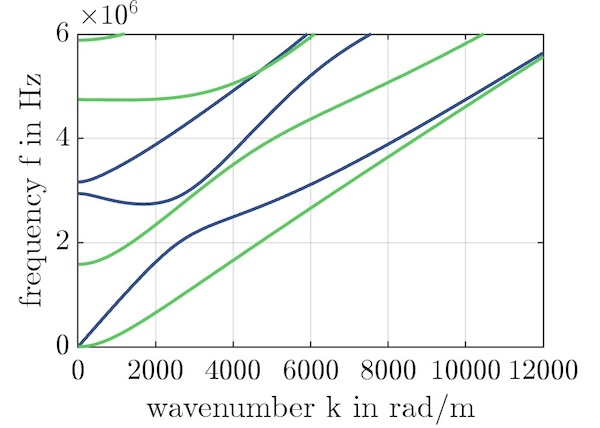
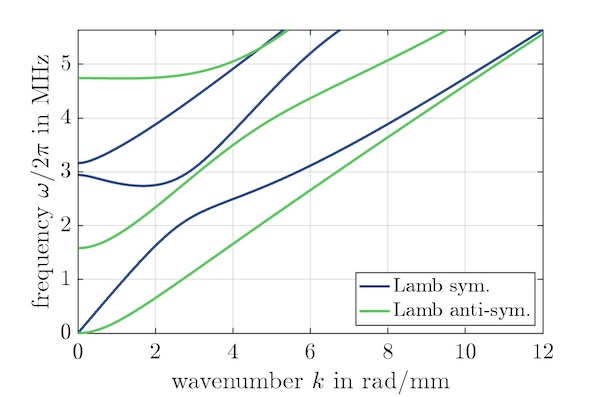
updated readme and changelog. added QR code.

diff --git a/readme.md b/readme.md
@@ -7,18 +7,28 @@
 
 **Features**:
 
-- Multi-layered plates, tubes and rods
-- Super fast, guarantees to find all solutions
-- General anisotropy, dissipation
-- Compute real frequencies, complex wavenumbers, or ZGV points
-- Choose polarization (Lamb/SH/coupled) and parity (S/A)
+- multi-layered plates, tubes and rods
+- anisotropy, piezoelectricity, dissipation
+- super fast, guarantees to find all solutions
+- compute real frequencies, complex wavenumbers, or ZGV points
+- choose polarization (Lamb/SH/coupled) and parity (S/A)
 
 [![GitHub](assets/logo_github.svg)](https://github.com/dakiefer/GEWtool) Code repository: [https://github.com/dakiefer/GEWtool](https://github.com/dakiefer/GEWtool)
+
+> [!WARNING]
+> **v2.0 introduces the following backward-incompatibilities**:
+>
+> - directory structure updated: you will need to re-run `install.m` after updating to v2.0.
+> - `rotateEuler()` changed from extrinsic to intrinsic rotations! Reverse the order of rotation sequences in your old scripts to get the same results as with older GEWtool versions. 
+>   See `help rotateEuler` for more information.
+> - changed coordinate system
+>   - plate: ex-ey-ez system: ex is propagation direction, _ez is normal_ to the plate surface (previously, this was ey)
+>   - cylinder: ex-ephi-er system: ex is propagation direction, er is the radial direction
+> - solver functions: return a `GEWdat` object instead of a `struct`
 
 > [!NOTE]
 > **Coming soon**:
 >
-> - Piezoelectricity 
 > - Leaky waves
 > 
 > Contact me if you have questions:  [daniel.kiefer@espci.fr](mailto:daniel.kiefer@espci.fr)
@@ -33,9 +43,7 @@ k = linspace(1e-2, 12, 100)/h;   % wavenumbers to solve for
 plate = Plate(mat, h, N);        % create waveguide description 
 gews = plate.LambSA; tic;        % choose S+A Lamb waves (assembles matrices)
 dat = computeW(gews, k, 4); toc; % solve and save 4 modes (argument optional)
-plot(dat(1).k, dat(1).w/2/pi, 'Color', "#3B518B"); hold on;        % symmetric
-plot(dat(2).k, dat(2).w/2/pi, 'Color', "#5EC962"); ylim([0, 6e6]); % anti-sym
-xlabel('wavenumber k in rad/m'), ylabel('frequency f in Hz')
+plot(dat); 											 % plot dispersion curves
 ```
 
 output:
@@ -47,9 +55,9 @@ Proceed by inspecting the laser-ultrasonic excitability of the waves computed ab
 
 ```matlab
 k = linspace(1e-2, 12, 200)/h;          % use more wavenumbers
-gew = plate.Lamb;                       % choose all Lamb waves
+gew = plate.Lamb;                       % choose all Lamb waves this time
 dat = computeW(gew, k, 7);              % compute
-exc = excitabilityLUS(dat, 'top'); % ux*uz at top surface (value of 1 at 100x median)
+exc = excitabilityLUS(dat, 'top'); % vx*uz at top surface (value of 1 at 100x median)
 exc = 20*log10(exc);                    % in decibel
 scatter(dat.k(:)/1e3, dat.w(:)/2/pi/1e6, 15, exc(:), 'filled'), ylim([0, 6]);
 colormap(flipud(colormap)); cb = colorbar; caxis([-50, 0]);
@@ -147,7 +155,7 @@ Hauke Gravenkamp, Pierre Chantelot, Claire Prada, Clemens Grünsteidl and Michae
 
 ## Author
 
-2022–2024 – Daniel A. Kiefer, Institut Langevin, ESPCI Paris, Université PSL.
+2022–2025 – Daniel A. Kiefer, Institut Langevin, ESPCI Paris, Université PSL.
 
 I have several years of experience in waveguide modeling and numerical implementations thereof. In January 2022 I decided to create a new modular and versatile code from scratch. The result is GEWtool. My hope is that it be a valuable research tool and at the same time a helpful educational resource for those interested in numerical methods and elastic waves.
 

diff --git a/CHANGELOG.md b/CHANGELOG.md
@@ -2,6 +2,28 @@
 
 Documents the changes to GEWtool.
 
+## 2.0 (2025-01-28)
+
+- FEATURE **piezoelectric plates** are now supported. Simply pass a piezoelectric material to the Plate class.
+- FEATURE **More convenient post-processing**. `GEWdat` is now a class. It saves the computed results and the Waveguide object for later post-processing. Properties: `gew` (waveguide object), `k` (wavenumbers), `w` (angular frequencies), `Psi` (eigenvectors), `Nk` (number of wavenumbers), `Nw` (number of frequencies), `cp` (phase velocity), `ce` (energy velocity magnitude), `cex` (energy velocity's axial component), `cey` (energy velocity's transverse component), `u` (field components). Functions: `plot()` wavenumber-frequency dispersion curves.
+- FEATURE **use subspace methods** per default when matrices are big. Much faster computation of multilayered guides.
+- FEATURE `Waveguide.family` property informs about the type of waves, e.g., Lamb, etc
+- FEATURE `Waveguide.vars` property stores the names of the independent field variables, e.g., ["ux", "uz"] for Lamb waves.
+- `fieldComponents()`: function to re-structure eigenvectors to array of size of the modeled field components (displacement components, potential, etc). Accessible as `GEWdat.u`. 
+- `decouplesPolarization()` can now test the decoupling of any set of unknowns
+- `polarization()` now warns when the requested polarization does not decouple from the rest. Used internally by Lamb(), etc.
+- `computeZGVScan()` now also returns the eigenvectors
+
+**WARNING**: Take into account the following backward-incompatible changes when running your old code: 
+
+- directory structure updated: **you will need to re-run `install.m`** after updating to v2.0.
+- `rotateEuler()` **changed from extrinsic to intrinsic rotations**! Reverse the order of rotation sequences in your scripts to get the same results as before. See `help rotateEuler` for more information.
+- **changed coordinate system**
+  - plate: ex-ey-ez system: ex is propagation direction, _ez is normal_ to the plate surface (previously, this was ey)
+  - cylinder: ex-ephi-er system: ex is propagation direction, er is the radial direction
+- solver functions: return a `GEWdat` object instead of a `struct`
+- renamed the following properties of the Layer class: Pd -> D, PdPd -> DD, PPd -> PD.
+
 ## 1.6 (2024-11-25)
 
 - FEATURE **circumferential waves** in hollow cylinders. Rods (full cylinders do not support this at the moment). 
